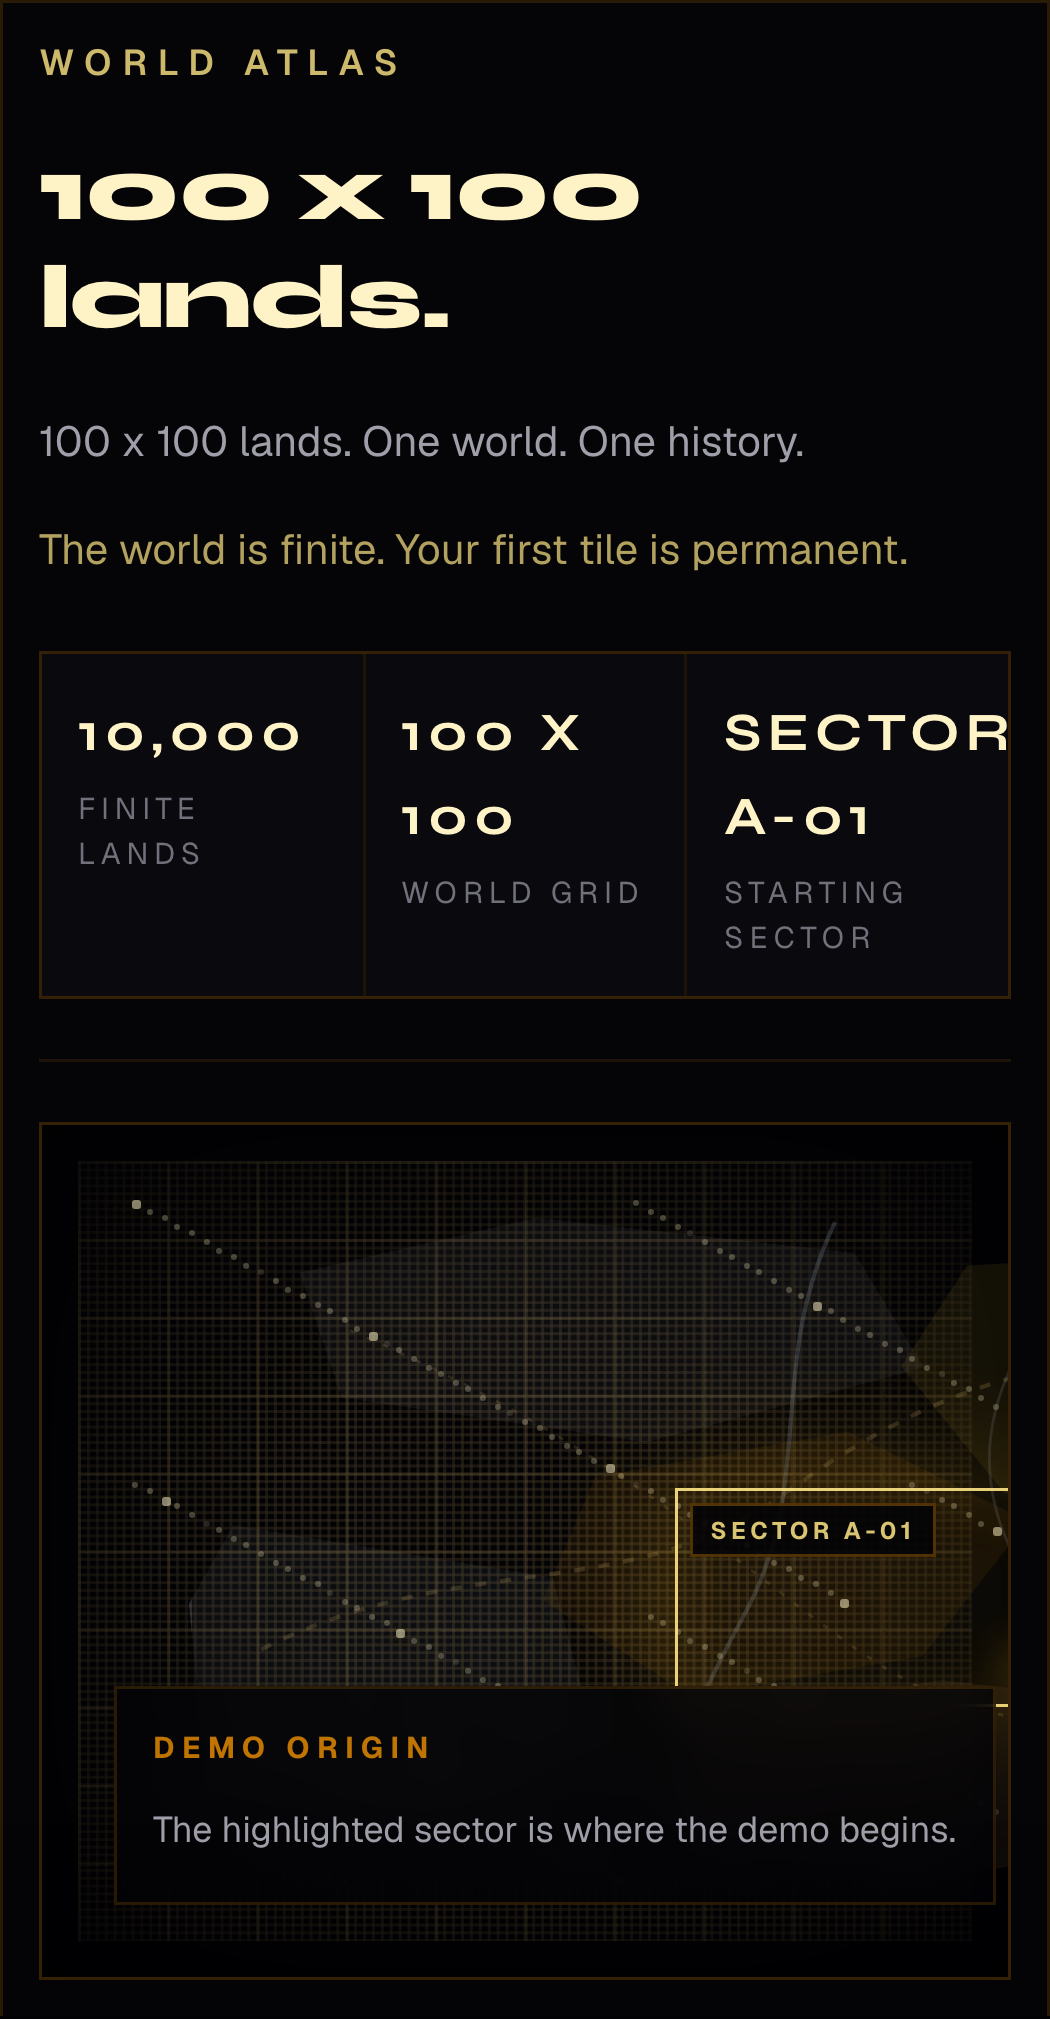
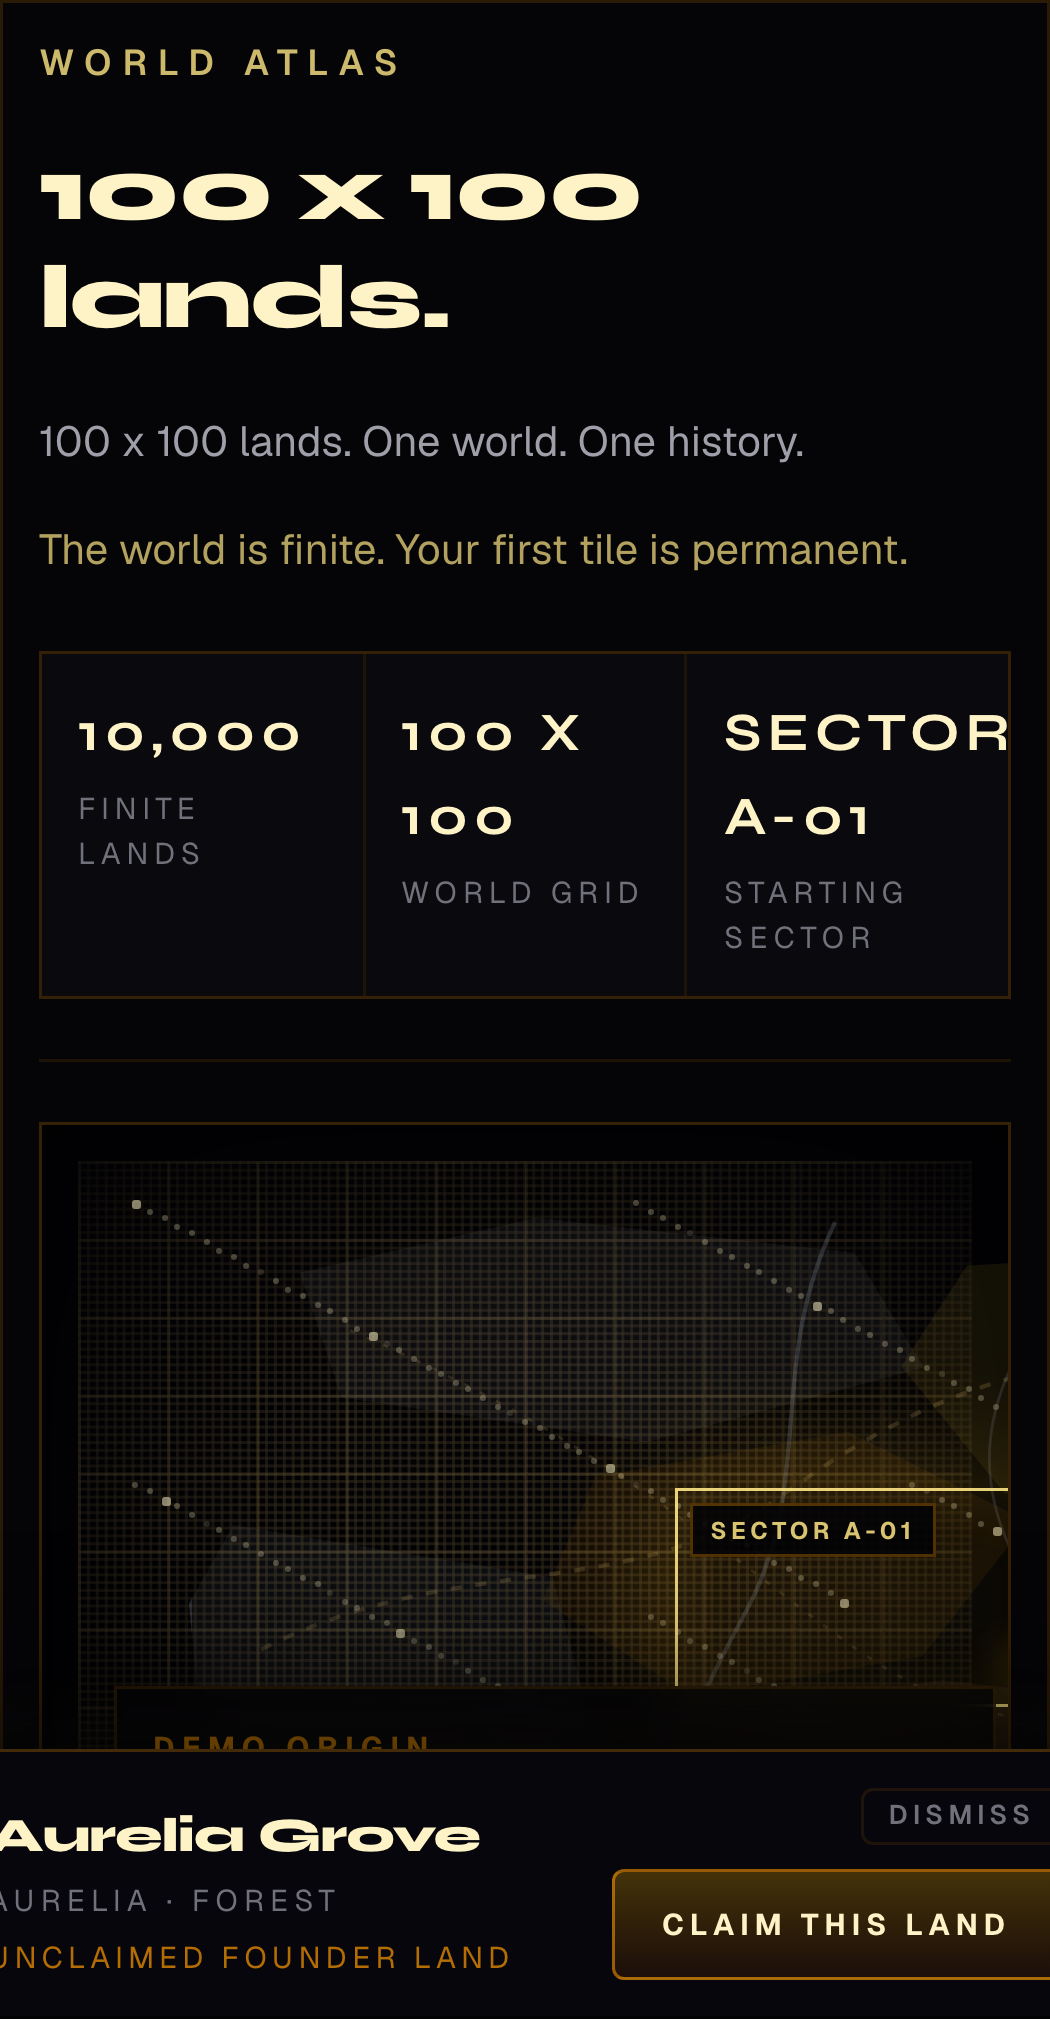
Improve mobile world claim flow

Changed region(s): [[0.0, 0.8425, 0.4571, 0.9985], [0.579, 0.8737, 1.0, 0.9985], [0.3962, 0.9673, 0.4876, 0.9985]]

diff --git a/app/world/page.tsx b/app/world/page.tsx
@@ -1,7 +1,7 @@
 "use client";
 
 import Link from "next/link";
-import { useEffect, useMemo, useState } from "react";
+import { useEffect, useMemo, useRef, useState } from "react";
 import {
   DEFAULT_SETTLEMENT_STATE,
   readSettlementState,
@@ -381,7 +381,37 @@ export default function WorldPage() {
   const ownedByYou = demoState.claimedLand && demoState.claimedLandId === selectedTile.id;
   const isUnavailable = selectedTile.claimed && !ownedByYou;
   const status = ownedByYou ? "Owned by You" : selectedTile.claimed ? "Claimed" : "Unclaimed";
+  const mobileTrayStatus = ownedByYou
+    ? "Your claimed land"
+    : isUnavailable
+      ? "Already claimed"
+      : selectedTile.starter && !selectedTile.claimed
+        ? "Unclaimed founder land"
+        : "Unclaimed land";
   const continueRoute = getContinueRoute(demoState);
+
+  const selectedLandPanelRef = useRef<HTMLElement>(null);
+  const [mobileTrayDismissed, setMobileTrayDismissed] = useState(false);
+  const [selectedPanelInView, setSelectedPanelInView] = useState(false);
+
+  useEffect(() => {
+    setMobileTrayDismissed(false);
+  }, [selectedTileId]);
+
+  useEffect(() => {
+    const panel = selectedLandPanelRef.current;
+    if (!panel) return;
+
+    const observer = new IntersectionObserver(
+      ([entry]) => setSelectedPanelInView(entry.isIntersecting),
+      { threshold: 0.12, rootMargin: "0px 0px -72px 0px" },
+    );
+    observer.observe(panel);
+    return () => observer.disconnect();
+  }, []);
+
+  const showMobileClaimTray =
+    !mobileTrayDismissed && !selectedPanelInView && !isClaimModalOpen;
 
   const openClaimModal = () => {
     setClaimSuccess(false);
@@ -408,7 +438,7 @@ export default function WorldPage() {
   };
 
   return (
-    <main className="min-h-screen overflow-x-hidden bg-[#020204] px-5 py-8 text-white sm:px-10 sm:py-14">
+    <main className="min-h-screen overflow-x-hidden bg-[#020204] px-5 py-8 pb-28 text-white sm:px-10 sm:py-14 lg:pb-14">
       <div className="mx-auto max-w-7xl">
         <header className="border-b border-amber-500/15 pb-8">
           <p className="text-xs font-semibold uppercase tracking-[0.45em] text-amber-600/75">World Map</p>
@@ -734,6 +764,12 @@ export default function WorldPage() {
                           {!tile.starter && !tile.landmark && tile.resourceRich && !tileClaimed ? (
                             <span className="pointer-events-none absolute right-1 top-1 h-1 w-1 rounded-full bg-cyan-200/70" />
                           ) : null}
+                          {isSelected ? (
+                            <span
+                              aria-hidden
+                              className="pointer-events-none absolute inset-0 bg-amber-300/[0.06] animate-world-tile-selected-glow lg:hidden"
+                            />
+                          ) : null}
                           {tileOwnedByYou ? (
                             <span className="absolute inset-0 flex items-center justify-center bg-amber-500/10 text-[7px] font-bold uppercase tracking-[0.18em] text-amber-100">
                               You
@@ -762,6 +798,7 @@ export default function WorldPage() {
           </article>
 
           <aside
+            ref={selectedLandPanelRef}
             id="selected-land-panel"
             data-qa="selected-land-panel"
             className="border border-amber-500/15 bg-[#06060c]/90 p-5 shadow-[0_20px_90px_rgba(0,0,0,0.45)] sm:p-6 lg:sticky lg:top-6 lg:self-start"
@@ -831,6 +868,61 @@ export default function WorldPage() {
           </aside>
         </section>
       </div>
+
+      {showMobileClaimTray ? (
+        <div
+          data-qa="mobile-claim-tray"
+          className="fixed inset-x-0 bottom-0 z-40 border-t border-amber-500/25 bg-[#06060c]/96 px-4 py-3 shadow-[0_-16px_48px_rgba(0,0,0,0.7),0_0_40px_rgba(201,169,98,0.08)] backdrop-blur-md lg:hidden"
+        >
+          <div className="mx-auto flex max-w-lg items-end gap-3">
+            <div className="min-w-0 flex-1">
+              <p className="truncate font-[family-name:var(--font-syne)] text-base font-extrabold tracking-tight text-amber-100">
+                {selectedTile.landName}
+              </p>
+              <p className="mt-0.5 truncate text-[10px] uppercase tracking-[0.2em] text-zinc-500">
+                {selectedTile.region} · {toTerrainLabel(selectedTile.terrain)}
+              </p>
+              <p className="mt-1 text-[10px] uppercase tracking-[0.18em] text-amber-500/70">
+                {mobileTrayStatus}
+              </p>
+            </div>
+            <div className="flex shrink-0 flex-col items-stretch gap-2">
+              <button
+                type="button"
+                onClick={() => setMobileTrayDismissed(true)}
+                aria-label="Dismiss quick claim tray"
+                className="self-end rounded border border-amber-500/10 px-2 py-0.5 text-[9px] font-semibold uppercase tracking-[0.18em] text-zinc-500 transition-colors hover:border-amber-500/25 hover:text-zinc-300"
+              >
+                Dismiss
+              </button>
+              {ownedByYou ? (
+                <Link
+                  href="/dashboard"
+                  className="btn-primary rounded border border-amber-500/55 bg-gradient-to-b from-amber-400/25 to-amber-800/15 px-4 py-2.5 text-center text-[10px] font-bold uppercase tracking-[0.2em] text-amber-100"
+                >
+                  Enter Your Land
+                </Link>
+              ) : isUnavailable ? (
+                <button
+                  type="button"
+                  disabled
+                  className="cursor-not-allowed rounded border border-zinc-800 bg-[#08080f]/70 px-4 py-2.5 text-[10px] font-bold uppercase tracking-[0.2em] text-zinc-500"
+                >
+                  Already Claimed
+                </button>
+              ) : (
+                <button
+                  type="button"
+                  onClick={openClaimModal}
+                  className="btn-primary rounded border border-amber-500/55 bg-gradient-to-b from-amber-400/25 to-amber-800/15 px-4 py-2.5 text-[10px] font-bold uppercase tracking-[0.2em] text-amber-100"
+                >
+                  Claim This Land
+                </button>
+              )}
+            </div>
+          </div>
+        </div>
+      ) : null}
 
       {isClaimModalOpen ? (
         <div

diff --git a/public/qa/latest/report.html b/public/qa/latest/report.html
@@ -27,7 +27,7 @@
     <header>
       <p class="eyebrow">Pixel Nations QA Report</p>
       <h1>Pixel Nations QA Report</h1>
-      <p>Generated: <code>2026-06-11T13:01:23.126Z</code></p>
+      <p>Generated: <code>2026-06-11T13:17:23.578Z</code></p>
       <p>App source: <code>existing local app</code></p>
     </header>
 
@@ -110,6 +110,14 @@
             </div>
             <h3>mobile-world-selected-land-panel.png</h3>
             <a href="./screenshots/mobile-world-selected-land-panel.png"><img src="./screenshots/mobile-world-selected-land-panel.png" alt="mobile-world-selected-land-panel.png" /></a>
+          </article>
+<article class="card">
+            <div class="meta">
+              <span>mobile</span>
+              <span>/world</span>
+            </div>
+            <h3>mobile-world-claim-tray.png</h3>
+            <a href="./screenshots/mobile-world-claim-tray.png"><img src="./screenshots/mobile-world-claim-tray.png" alt="mobile-world-claim-tray.png" /></a>
           </article>
 <article class="card">
             <div class="meta">

diff --git a/app/globals.css b/app/globals.css
@@ -75,6 +75,18 @@ html {
   }
 }
 
+@keyframes world-tile-selected-glow {
+  0%,
+  100% {
+    opacity: 0.35;
+    box-shadow: inset 0 0 10px rgba(251, 191, 36, 0.12);
+  }
+  50% {
+    opacity: 0.7;
+    box-shadow: inset 0 0 18px rgba(251, 191, 36, 0.28);
+  }
+}
+
 @keyframes world-marker-pulse {
   0%,
   100% {
@@ -115,6 +127,10 @@ html {
 
 .animate-world-marker-pulse {
   animation: world-marker-pulse 3.8s ease-in-out infinite;
+}
+
+.animate-world-tile-selected-glow {
+  animation: world-tile-selected-glow 2.6s ease-in-out infinite;
 }
 
 .animate-world-map-drift {
